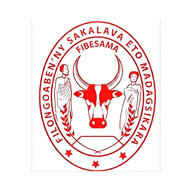
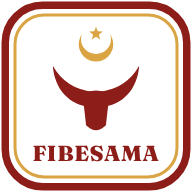
Icône vaovao (C2): omby, volana sy kintana
Claude-Session: https://claude.ai/code/session_01Y9ftBk8DpLR88YLMReCWRT

diff --git a/index.html b/index.html
@@ -7,9 +7,10 @@
 <meta name="description" content="FIBESAMA, Filongoaben'ny Sakalava eto Madagasikara: ny tantara, ny vakoka ary ny fomban-drazana sakalava.">
 <meta name="theme-color" content="#7a1f1f">
 <link rel="manifest" href="manifest.webmanifest">
-<link rel="icon" href="icon-192.png">
+<link rel="icon" type="image/png" sizes="48x48" href="favicon-48.png">
+<link rel="icon" type="image/png" sizes="192x192" href="icon-192.png">
 <meta property="og:image" content="https://sambatratiphanie-lab.github.io/FIBESAMA-FilongoaBen-ny-Sakalava-/icon-512.png">
-<link rel="apple-touch-icon" href="icon-192.png">
+<link rel="apple-touch-icon" href="apple-touch-icon.png">
 <meta property="og:title" content="FIBESAMA · Filongoaben'ny Sakalava eto Madagasikara">
 <meta property="og:description" content="Tantara, vakoka ary fomban-drazana sakalava. Firaisankina sy fandrosoana.">
 <meta property="og:type" content="website">

diff --git a/sw.js b/sw.js
@@ -1,6 +1,6 @@
 // FIBESAMA public site cache. Never touches the private /app/ area.
-const CACHE = 'fibesama-site-v9';
-const FILES = ['./', './index.html', './manifest.webmanifest', './icon-192.png', './icon-512.png', './logo.png', './i18n.js', './sary/hero.jpg'];
+const CACHE = 'fibesama-site-v10';
+const FILES = ['./', './index.html', './manifest.webmanifest', './icon-192.png', './icon-512.png', './favicon-48.png', './logo.png', './i18n.js', './sary/hero.jpg'];
 self.addEventListener('install', e => { e.waitUntil(caches.open(CACHE).then(c => c.addAll(FILES)).then(() => self.skipWaiting())); });
 self.addEventListener('activate', e => { e.waitUntil(caches.keys().then(ks => Promise.all(ks.filter(k => k.startsWith('fibesama-site-') && k !== CACHE).map(k => caches.delete(k)))).then(() => self.clients.claim())); });
 self.addEventListener('fetch', e => {
